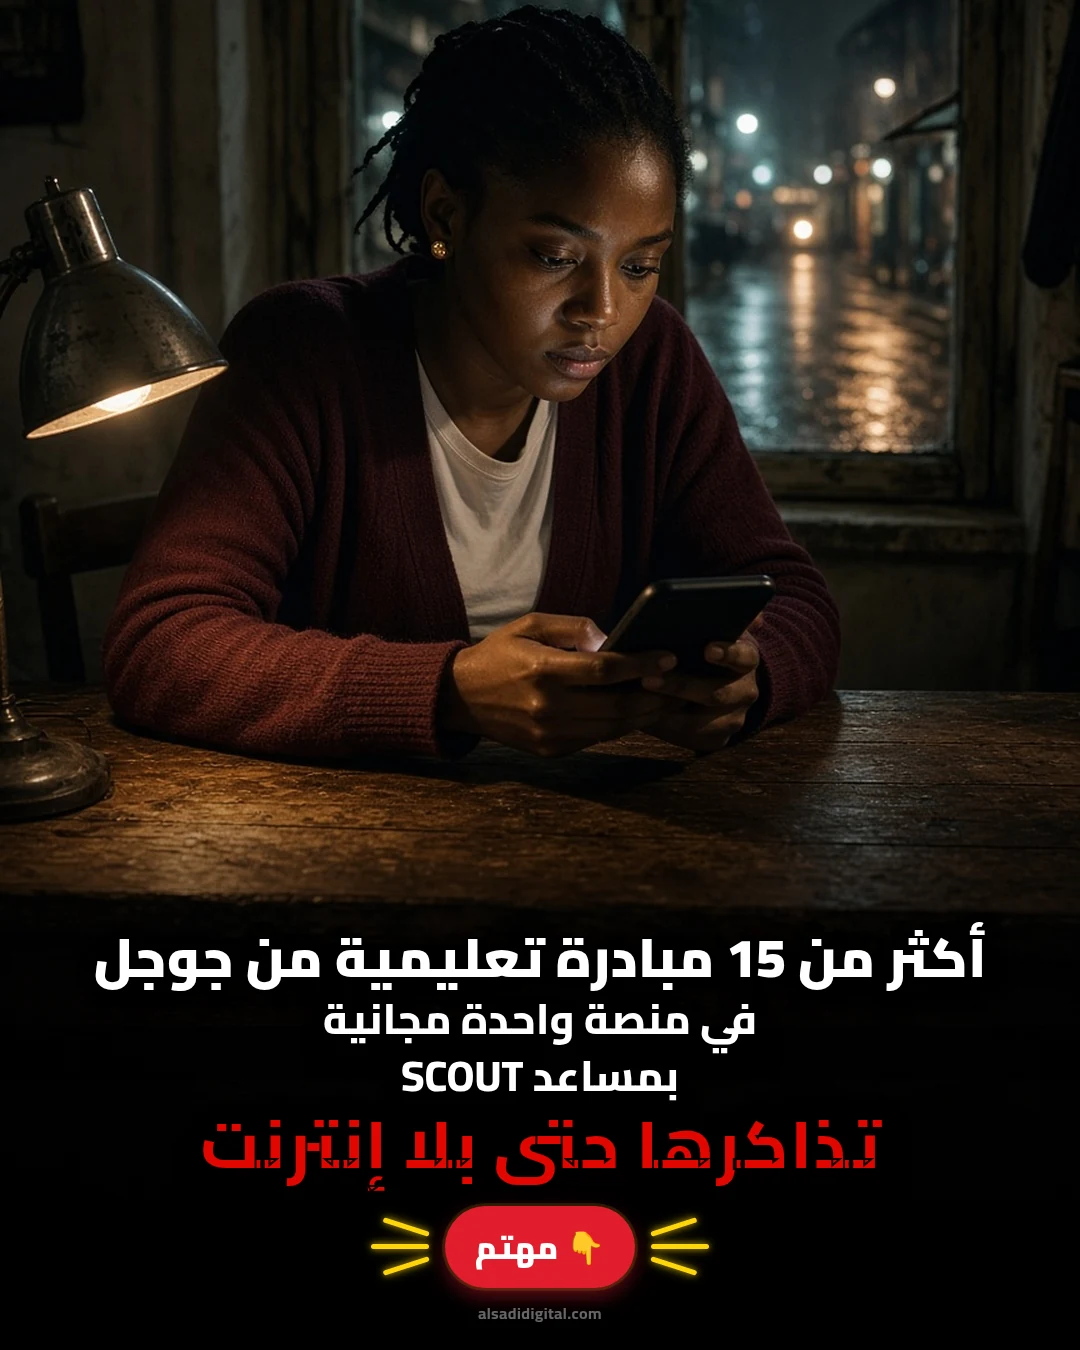
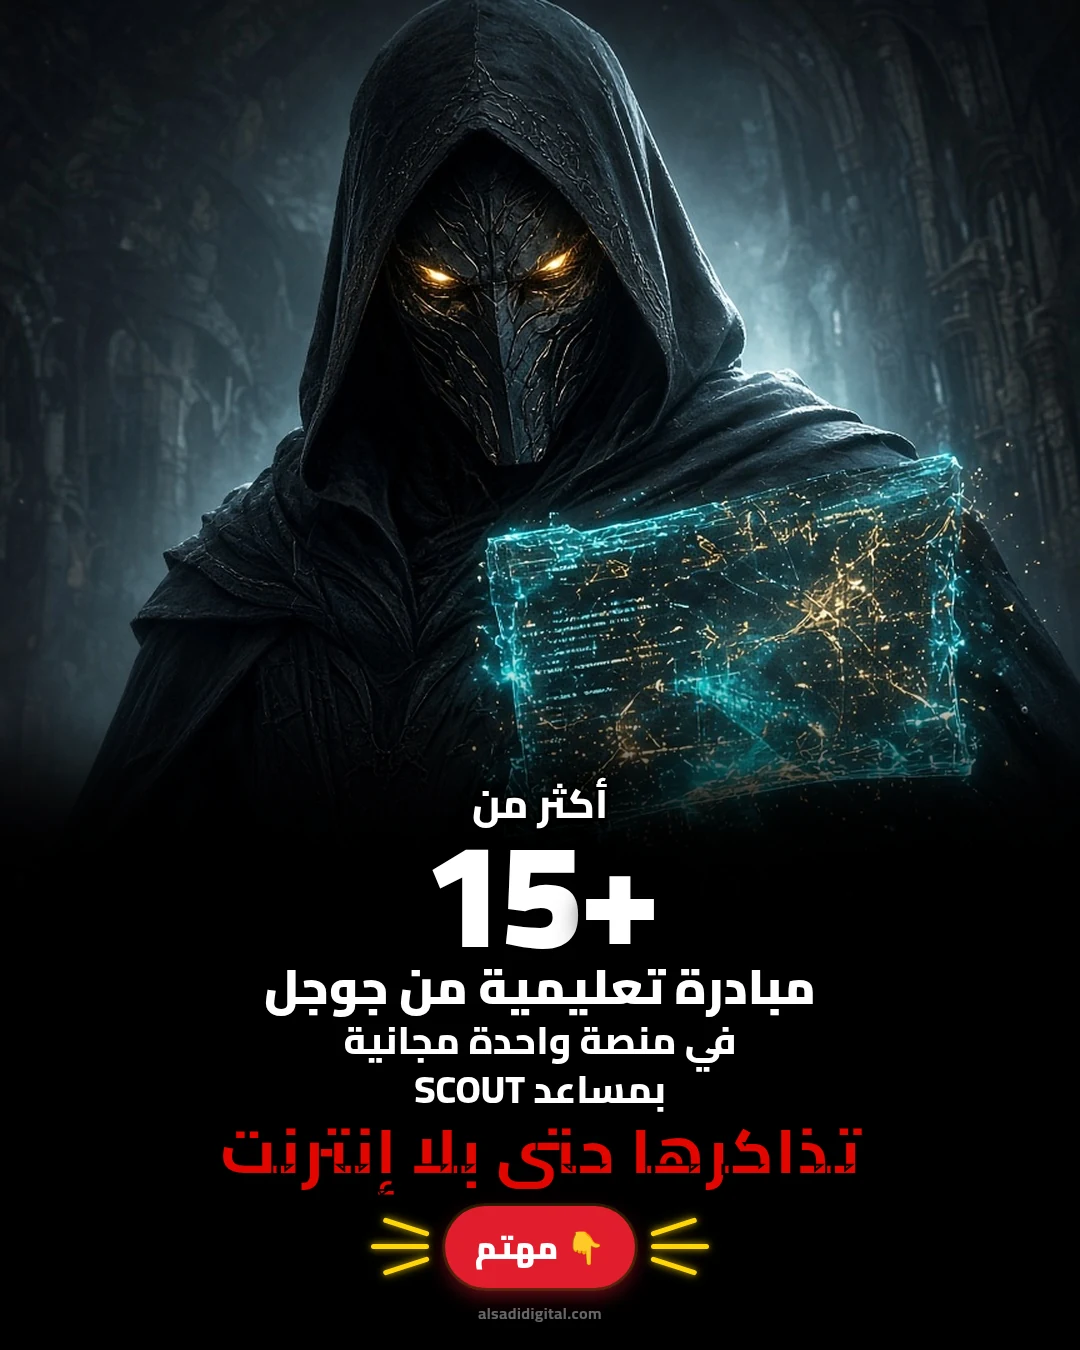
Blog: replace Skilling Africa cover with a hooded figure (no woman)
New cinematic hook background in the style of cover 13, with a large +15, the same Arabic typography and CTA. Cache bumped to ?v=2.

diff --git a/src/content/blog/posts/skilling-africa.ts b/src/content/blog/posts/skilling-africa.ts
@@ -3,7 +3,7 @@ import type { BlogPost } from '../types'
 export const post: BlogPost = {
   slug: 'skilling-africa-with-google-free-hub',
   date: '2026-11-12',
-  cover: '/blog/skilling-africa-with-google-free-hub.webp?v=1',
+  cover: '/blog/skilling-africa-with-google-free-hub.webp?v=2',
   coverAlt: {
     ar: 'غلاف مقال منصة Skilling Africa with Google المجانية مع مساعد SCOUT',
     en: 'Cover: the free Skilling Africa with Google hub and the SCOUT companion',
